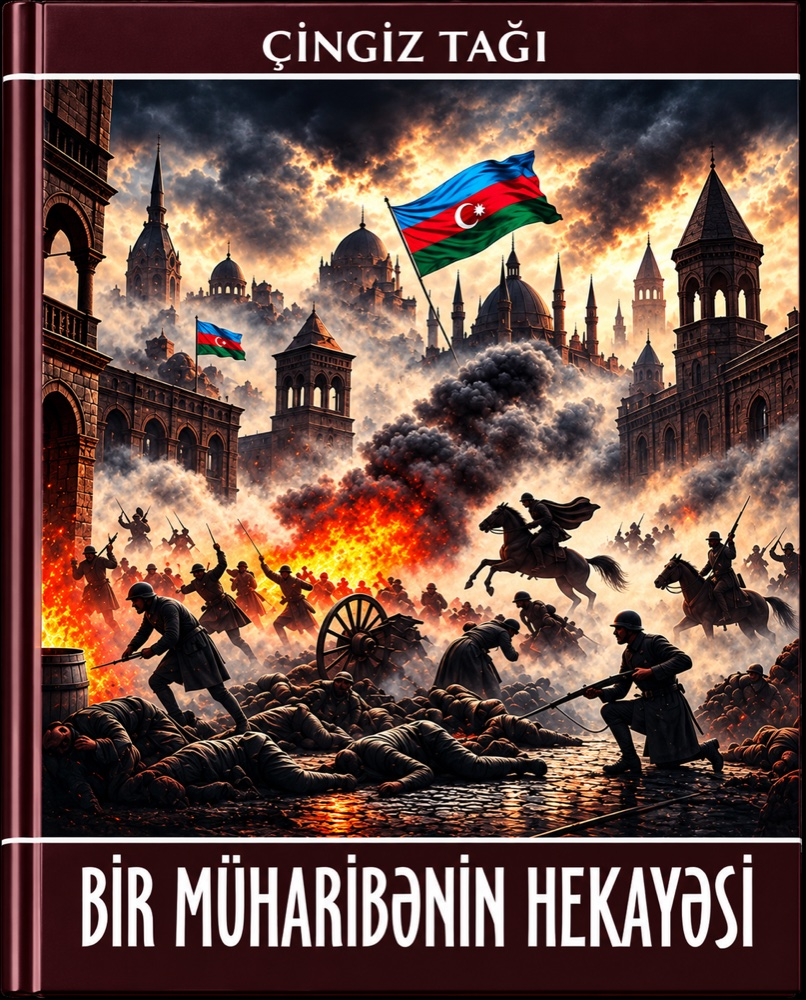
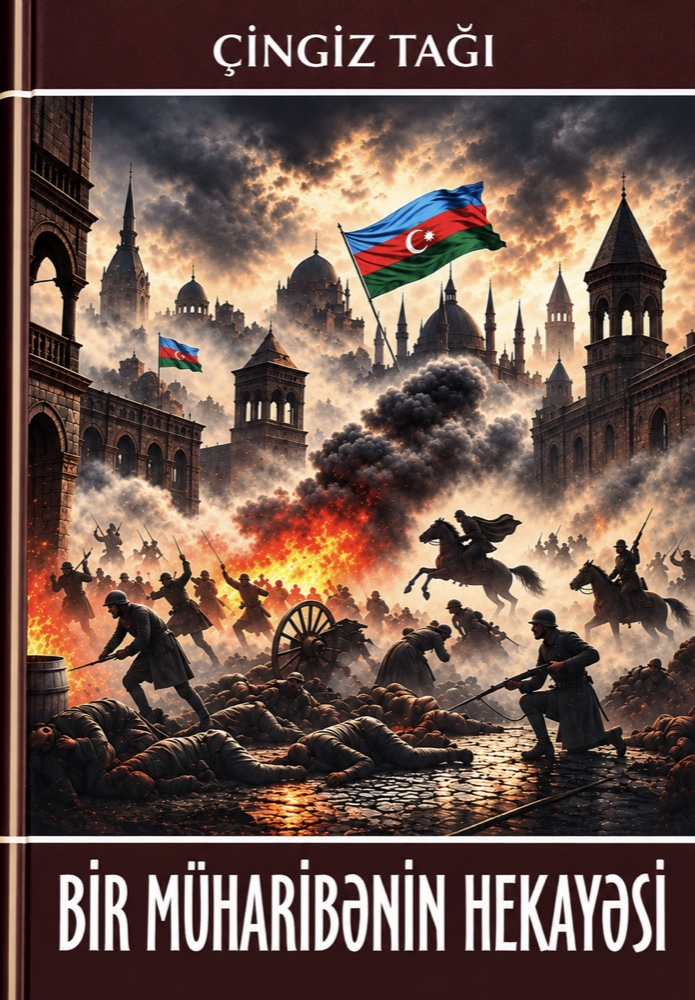
Update war book covers (AZ + RU)

diff --git a/ru/books/istoriya-odnoy-voyny.html b/ru/books/istoriya-odnoy-voyny.html
@@ -15,7 +15,7 @@
 <meta property="og:description" content="История одной войны — исторический роман, охватывающий период с 1828 года, когда впервые армянские переселенцы прибыли в Азербайджан, по 2023 год. В книге рассказывается о том, как изменилась спокойная жизнь азербайджанского народа с их…">
 <meta property="og:url" content="https://chingiztaghi.netlify.app/ru/books/istoriya-odnoy-voyny">
 <meta property="og:locale" content="ru">
-<meta property="og:image" content="https://chingiztaghi.netlify.app/assets/covers/istoriya-odnoy-voyny-ru.jpg?v=afbe19a8">
+<meta property="og:image" content="https://chingiztaghi.netlify.app/assets/covers/istoriya-odnoy-voyny-ru.jpg?v=a66092a8">
 <meta name="twitter:card" content="summary_large_image">
 <meta name="google-site-verification" content="Zv4KcSWtK4rWaxfy-zp3f7aHRy0XpEZRDrQgy4bXWNc" />
 <link rel="icon" href="../../assets/img/favicon.svg" type="image/svg+xml">
@@ -25,7 +25,7 @@
 <link rel="stylesheet" href="../../assets/css/nocturne.css?v=fa412bc8">
 <link rel="stylesheet" href="../../assets/css/site.css?v=fa412bc8">
 <script src="../../assets/js/carousel.js?v=e8d14b1a" defer></script>
-<script type="application/ld+json">{"@context":"https://schema.org","@type":"Book","name":"История одной войны","genre":"Исторический роман","datePublished":"2024","inLanguage":["az","ru"],"image":"https://chingiztaghi.netlify.app/assets/covers/istoriya-odnoy-voyny-ru.jpg?v=afbe19a8","author":{"@type":"Person","name":"Чингиз Таги"}}</script>
+<script type="application/ld+json">{"@context":"https://schema.org","@type":"Book","name":"История одной войны","genre":"Исторический роман","datePublished":"2024","inLanguage":["az","ru"],"image":"https://chingiztaghi.netlify.app/assets/covers/istoriya-odnoy-voyny-ru.jpg?v=a66092a8","author":{"@type":"Person","name":"Чингиз Таги"}}</script>
 </head>
 <body>
 <header class="site-header">
@@ -50,7 +50,7 @@
 <main>
 <section class="wrap section split">
   <div class="split-media">
-    <div class="book-cover"><img src="../../assets/covers/istoriya-odnoy-voyny-ru.jpg?v=afbe19a8" alt="История одной войны"></div>
+    <div class="book-cover"><img src="../../assets/covers/istoriya-odnoy-voyny-ru.jpg?v=a66092a8" alt="История одной войны"></div>
     <dl class="facts">
             <div class="fact-row"><dt>Год издания</dt><dd>2024</dd></div>
             <div class="fact-row"><dt>Язык</dt><dd>азербайджанский, русский</dd></div>

diff --git a/books/istoriya-odnoy-voyny.html b/books/istoriya-odnoy-voyny.html
@@ -15,7 +15,7 @@
 <meta property="og:description" content="«Bir müharibənin hekayəsi» erməni köçkünlərinin Azərbaycana ilk gəlişi olan 1828-ci ildən 2023-cü ilə qədər olan dövrü əhatə edən tarixi romandır. Kitabda iki yüz ilə yaxın müddət ərzində Azərbaycan xalqının dinc həyatının ermənilərin…">
 <meta property="og:url" content="https://chingiztaghi.netlify.app/books/istoriya-odnoy-voyny">
 <meta property="og:locale" content="az">
-<meta property="og:image" content="https://chingiztaghi.netlify.app/assets/covers/istoriya-odnoy-voyny-az.jpg?v=abc6a560">
+<meta property="og:image" content="https://chingiztaghi.netlify.app/assets/covers/istoriya-odnoy-voyny-az.jpg?v=2397ad03">
 <meta name="twitter:card" content="summary_large_image">
 <meta name="google-site-verification" content="Zv4KcSWtK4rWaxfy-zp3f7aHRy0XpEZRDrQgy4bXWNc" />
 <link rel="icon" href="../assets/img/favicon.svg" type="image/svg+xml">
@@ -25,7 +25,7 @@
 <link rel="stylesheet" href="../assets/css/nocturne.css?v=fa412bc8">
 <link rel="stylesheet" href="../assets/css/site.css?v=fa412bc8">
 <script src="../assets/js/carousel.js?v=e8d14b1a" defer></script>
-<script type="application/ld+json">{"@context":"https://schema.org","@type":"Book","name":"Bir müharibənin hekayəsi","genre":"Tarixi roman","datePublished":"2024","inLanguage":["az","ru"],"image":"https://chingiztaghi.netlify.app/assets/covers/istoriya-odnoy-voyny-az.jpg?v=abc6a560","author":{"@type":"Person","name":"Çingiz Tağı"}}</script>
+<script type="application/ld+json">{"@context":"https://schema.org","@type":"Book","name":"Bir müharibənin hekayəsi","genre":"Tarixi roman","datePublished":"2024","inLanguage":["az","ru"],"image":"https://chingiztaghi.netlify.app/assets/covers/istoriya-odnoy-voyny-az.jpg?v=2397ad03","author":{"@type":"Person","name":"Çingiz Tağı"}}</script>
 </head>
 <body>
 <header class="site-header">
@@ -50,7 +50,7 @@
 <main>
 <section class="wrap section split">
   <div class="split-media">
-    <div class="book-cover"><img src="../assets/covers/istoriya-odnoy-voyny-az.jpg?v=abc6a560" alt="Bir müharibənin hekayəsi"></div>
+    <div class="book-cover"><img src="../assets/covers/istoriya-odnoy-voyny-az.jpg?v=2397ad03" alt="Bir müharibənin hekayəsi"></div>
     <dl class="facts">
             <div class="fact-row"><dt>Nəşr ili</dt><dd>2024</dd></div>
             <div class="fact-row"><dt>Dil</dt><dd>Azərbaycan, Rus</dd></div>

diff --git a/en/books/istoriya-odnoy-voyny.html b/en/books/istoriya-odnoy-voyny.html
@@ -15,7 +15,7 @@
 <meta property="og:description" content="The Story of One War is a historical novel spanning the period from 1828 — when Armenian settlers first arrived in Azerbaijan — to 2023. The book tells of how the peaceful life of the Azerbaijani people changed with their arrival on our lands,…">
 <meta property="og:url" content="https://chingiztaghi.netlify.app/en/books/istoriya-odnoy-voyny">
 <meta property="og:locale" content="en">
-<meta property="og:image" content="https://chingiztaghi.netlify.app/assets/covers/istoriya-odnoy-voyny-ru.jpg?v=afbe19a8">
+<meta property="og:image" content="https://chingiztaghi.netlify.app/assets/covers/istoriya-odnoy-voyny-ru.jpg?v=a66092a8">
 <meta name="twitter:card" content="summary_large_image">
 <meta name="google-site-verification" content="Zv4KcSWtK4rWaxfy-zp3f7aHRy0XpEZRDrQgy4bXWNc" />
 <link rel="icon" href="../../assets/img/favicon.svg" type="image/svg+xml">
@@ -25,7 +25,7 @@
 <link rel="stylesheet" href="../../assets/css/nocturne.css?v=fa412bc8">
 <link rel="stylesheet" href="../../assets/css/site.css?v=fa412bc8">
 <script src="../../assets/js/carousel.js?v=e8d14b1a" defer></script>
-<script type="application/ld+json">{"@context":"https://schema.org","@type":"Book","name":"The Story of One War","genre":"Historical novel","datePublished":"2024","inLanguage":["az","ru"],"image":"https://chingiztaghi.netlify.app/assets/covers/istoriya-odnoy-voyny-ru.jpg?v=afbe19a8","author":{"@type":"Person","name":"Chingiz Taghi"}}</script>
+<script type="application/ld+json">{"@context":"https://schema.org","@type":"Book","name":"The Story of One War","genre":"Historical novel","datePublished":"2024","inLanguage":["az","ru"],"image":"https://chingiztaghi.netlify.app/assets/covers/istoriya-odnoy-voyny-ru.jpg?v=a66092a8","author":{"@type":"Person","name":"Chingiz Taghi"}}</script>
 </head>
 <body>
 <header class="site-header">
@@ -50,7 +50,7 @@
 <main>
 <section class="wrap section split">
   <div class="split-media">
-    <div class="book-cover"><img src="../../assets/covers/istoriya-odnoy-voyny-ru.jpg?v=afbe19a8" alt="The Story of One War"></div>
+    <div class="book-cover"><img src="../../assets/covers/istoriya-odnoy-voyny-ru.jpg?v=a66092a8" alt="The Story of One War"></div>
     <dl class="facts">
             <div class="fact-row"><dt>Year</dt><dd>2024</dd></div>
             <div class="fact-row"><dt>Language</dt><dd>Azerbaijani, Russian</dd></div>

diff --git a/ru/books.html b/ru/books.html
@@ -106,7 +106,7 @@
               </div>
             </article>
           <article class="book-card book-card-lg reveal">
-              <div class="book-cover"><img src="../assets/covers/istoriya-odnoy-voyny-ru.jpg?v=afbe19a8" alt="История одной войны — Исторический роман" loading="lazy"></div>
+              <div class="book-cover"><img src="../assets/covers/istoriya-odnoy-voyny-ru.jpg?v=a66092a8" alt="История одной войны — Исторический роман" loading="lazy"></div>
               <div class="book-body">
                 <span class="tag tag-outline">Исторический роман</span>
                 <h3>История одной войны</h3>

diff --git a/books.html b/books.html
@@ -106,7 +106,7 @@
               </div>
             </article>
           <article class="book-card book-card-lg reveal">
-              <div class="book-cover"><img src="assets/covers/istoriya-odnoy-voyny-az.jpg?v=abc6a560" alt="Bir müharibənin hekayəsi — Tarixi roman" loading="lazy"></div>
+              <div class="book-cover"><img src="assets/covers/istoriya-odnoy-voyny-az.jpg?v=2397ad03" alt="Bir müharibənin hekayəsi — Tarixi roman" loading="lazy"></div>
               <div class="book-body">
                 <span class="tag tag-outline">Tarixi roman</span>
                 <h3>Bir müharibənin hekayəsi</h3>

diff --git a/en/books.html b/en/books.html
@@ -106,7 +106,7 @@
               </div>
             </article>
           <article class="book-card book-card-lg reveal">
-              <div class="book-cover"><img src="../assets/covers/istoriya-odnoy-voyny-ru.jpg?v=afbe19a8" alt="The Story of One War — Historical novel" loading="lazy"></div>
+              <div class="book-cover"><img src="../assets/covers/istoriya-odnoy-voyny-ru.jpg?v=a66092a8" alt="The Story of One War — Historical novel" loading="lazy"></div>
               <div class="book-body">
                 <span class="tag tag-outline">Historical novel</span>
                 <h3>The Story of One War</h3>
